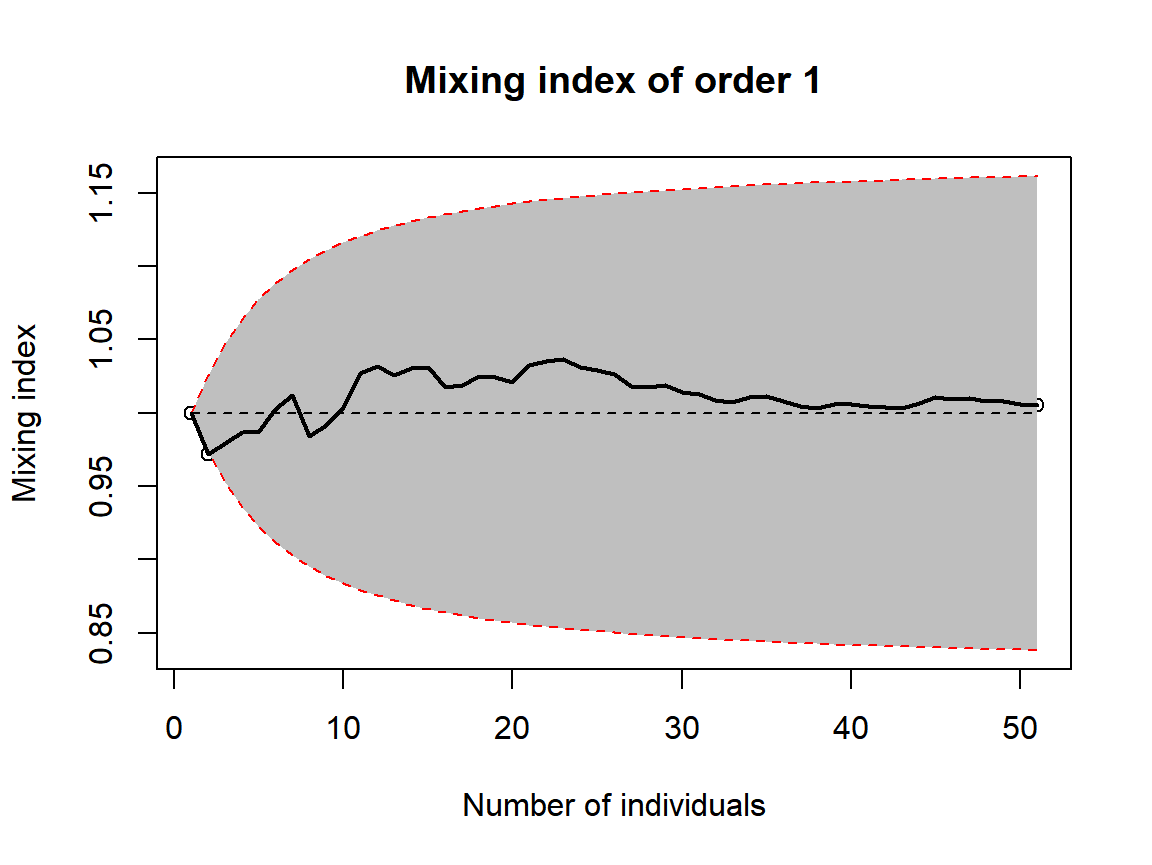
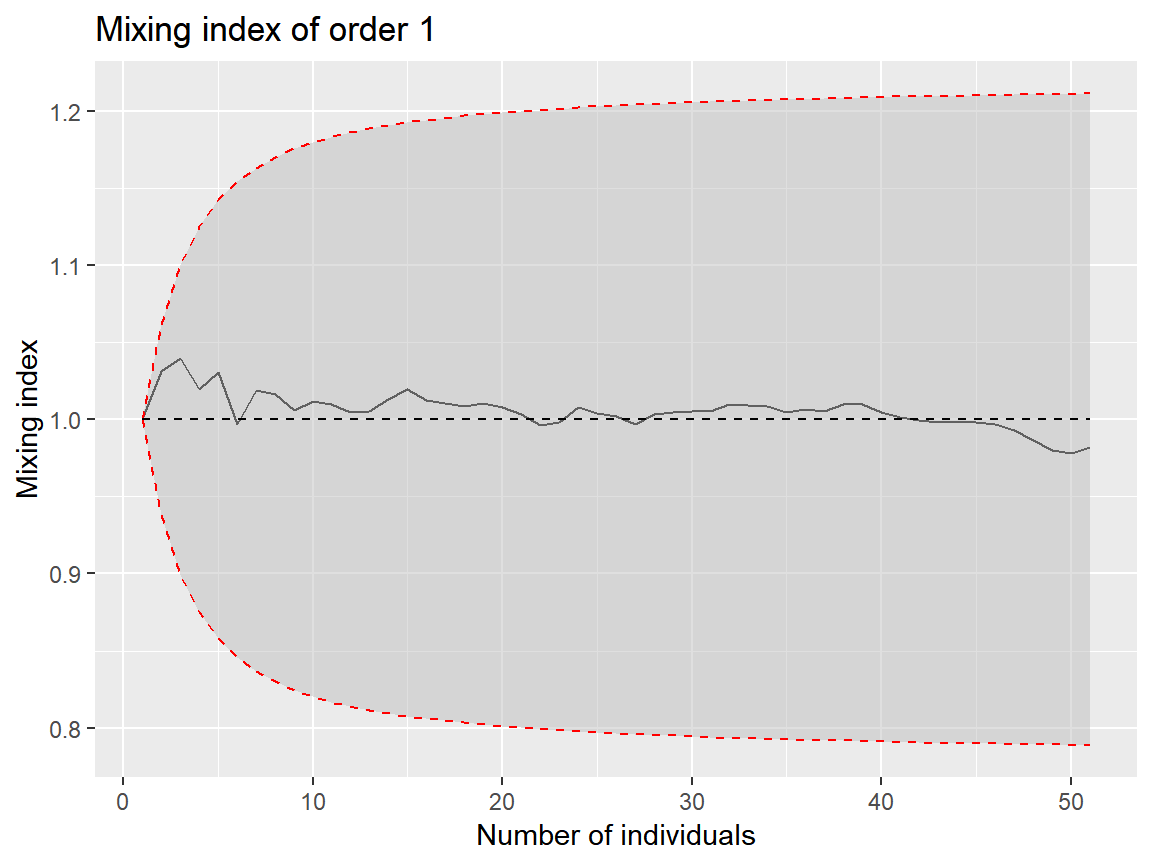
v. 0.4-0

diff --git a/docs/articles/SpatDiv.html b/docs/articles/SpatDiv.html
@@ -6,11 +6,18 @@
 <meta http-equiv="X-UA-Compatible" content="IE=edge">
 <meta name="viewport" content="width=device-width, initial-scale=1.0">
 <title>SpatDiv • SpatDiv</title>
+<!-- favicons --><link rel="icon" type="image/png" sizes="16x16" href="../favicon-16x16.png">
+<link rel="icon" type="image/png" sizes="32x32" href="../favicon-32x32.png">
+<link rel="apple-touch-icon" type="image/png" sizes="180x180" href="../apple-touch-icon.png">
+<link rel="apple-touch-icon" type="image/png" sizes="120x120" href="../apple-touch-icon-120x120.png">
+<link rel="apple-touch-icon" type="image/png" sizes="76x76" href="../apple-touch-icon-76x76.png">
+<link rel="apple-touch-icon" type="image/png" sizes="60x60" href="../apple-touch-icon-60x60.png">
 <!-- jquery --><script src="https://cdnjs.cloudflare.com/ajax/libs/jquery/3.3.1/jquery.min.js" integrity="sha256-FgpCb/KJQlLNfOu91ta32o/NMZxltwRo8QtmkMRdAu8=" crossorigin="anonymous"></script><!-- Bootstrap --><link rel="stylesheet" href="https://cdnjs.cloudflare.com/ajax/libs/twitter-bootstrap/3.3.7/css/bootstrap.min.css" integrity="sha256-916EbMg70RQy9LHiGkXzG8hSg9EdNy97GazNG/aiY1w=" crossorigin="anonymous">
 <script src="https://cdnjs.cloudflare.com/ajax/libs/twitter-bootstrap/3.3.7/js/bootstrap.min.js" integrity="sha256-U5ZEeKfGNOja007MMD3YBI0A3OSZOQbeG6z2f2Y0hu8=" crossorigin="anonymous"></script><!-- Font Awesome icons --><link rel="stylesheet" href="https://cdnjs.cloudflare.com/ajax/libs/font-awesome/4.7.0/css/font-awesome.min.css" integrity="sha256-eZrrJcwDc/3uDhsdt61sL2oOBY362qM3lon1gyExkL0=" crossorigin="anonymous">
 <!-- clipboard.js --><script src="https://cdnjs.cloudflare.com/ajax/libs/clipboard.js/2.0.4/clipboard.min.js" integrity="sha256-FiZwavyI2V6+EXO1U+xzLG3IKldpiTFf3153ea9zikQ=" crossorigin="anonymous"></script><!-- sticky kit --><script src="https://cdnjs.cloudflare.com/ajax/libs/sticky-kit/1.1.3/sticky-kit.min.js" integrity="sha256-c4Rlo1ZozqTPE2RLuvbusY3+SU1pQaJC0TjuhygMipw=" crossorigin="anonymous"></script><!-- pkgdown --><link href="../pkgdown.css" rel="stylesheet">
 <script src="../pkgdown.js"></script><meta property="og:title" content="SpatDiv">
 <meta property="og:description" content="">
+<meta property="og:image" content="https://ericmarcon.github.io/SpatDiv/logo.png">
 <meta name="twitter:card" content="summary">
 <!-- mathjax --><script src="https://cdnjs.cloudflare.com/ajax/libs/mathjax/2.7.5/MathJax.js" integrity="sha256-nvJJv9wWKEm88qvoQl9ekL2J+k/RWIsaSScxxlsrv8k=" crossorigin="anonymous"></script><script src="https://cdnjs.cloudflare.com/ajax/libs/mathjax/2.7.5/config/TeX-AMS-MML_HTMLorMML.js" integrity="sha256-84DKXVJXs0/F8OTMzX4UR909+jtl4G7SPypPavF+GfA=" crossorigin="anonymous"></script><!--[if lt IE 9]>
 <script src="https://oss.maxcdn.com/html5shiv/3.7.3/html5shiv.min.js"></script>
@@ -30,7 +37,7 @@
       </button>
       <span class="navbar-brand">
         <a class="navbar-link" href="../index.html">SpatDiv</a>
-        <span class="version label label-default" data-toggle="tooltip" data-placement="bottom" title="Released version">0.3.4</span>
+        <span class="version label label-default" data-toggle="tooltip" data-placement="bottom" title="Released version">0.4.0</span>
       </span>
     </div>
 
@@ -52,7 +59,14 @@
   <a href="../news/index.html">Changelog</a>
 </li>
       </ul>
-<ul class="nav navbar-nav navbar-right"></ul>
+<ul class="nav navbar-nav navbar-right">
+<li>
+  <a href="https://github.com/EricMarcon/SpatDiv">
+    <span class="fa fa-github fa-lg"></span>
+     
+  </a>
+</li>
+      </ul>
 </div>
 <!--/.nav-collapse -->
   </div>
@@ -68,7 +82,7 @@
             <h3 class="subtitle">Spatially Explicit Measures of Diversity</h3>
             
       
-      
+      <small class="dont-index">Source: <a href="https://github.com/EricMarcon/SpatDiv/blob/master/vignettes/SpatDiv.Rmd"><code>vignettes/SpatDiv.Rmd</code></a></small>
       <div class="hidden name"><code>SpatDiv.Rmd</code></div>
 
     </div>
@@ -95,7 +109,7 @@ remotes<span class="op">::</span><span class="kw"><a href="https://www.rdocument
 <span class="kw"><a href="https://www.rdocumentation.org/packages/graphics/topics/plot">plot</a></span>(spCommunity, <span class="dt">which.marks =</span> <span class="st">"PointType"</span>)</code></pre></div>
 <p><img src="SpatDiv_files/figure-html/rSpCommunity-1.png" width="700"></p>
 <p>Plot a rank-abundance curve.</p>
-<div class="sourceCode"><pre class="sourceCode r"><code class="sourceCode r"><span class="kw"><a href="https://www.rdocumentation.org/packages/graphics/topics/plot">plot</a></span>(<span class="kw">as.AbdVector</span>(spCommunity))</code></pre></div>
+<div class="sourceCode"><pre class="sourceCode r"><code class="sourceCode r"><span class="kw">autoplot</span>(<span class="kw">as.AbdVector</span>(spCommunity))</code></pre></div>
 <p><img src="SpatDiv_files/figure-html/Whittaker-1.png" width="700"></p>
 <div id="diversity-accumulation" class="section level2">
 <h2 class="hasAnchor">
@@ -105,19 +119,20 @@ remotes<span class="op">::</span><span class="kw"><a href="https://www.rdocument
 <a href="#with-respect-to-the-number-of-indiduals" class="anchor"></a>With respect to the number of indiduals</h3>
 <p>Compute the Diversity Accumulation Curve for 1 to 50 neighbors for orders 0, 1 and 2, with the theoretical, null-model curve. Plot it for Shannon diversity.</p>
 <div class="sourceCode"><pre class="sourceCode r"><code class="sourceCode r">divAccum &lt;-<span class="st"> </span><span class="kw"><a href="../reference/DivAccum.html">DivAccum</a></span>(spCommunity, <span class="dt">n.seq =</span> <span class="dv">1</span><span class="op">:</span><span class="dv">50</span>, <span class="dt">q.seq=</span><span class="dv">0</span><span class="op">:</span><span class="dv">2</span>, <span class="dt">H0=</span><span class="st">"Multinomial"</span>)</code></pre></div>
-<pre><code>## ======================================================================================================================================================</code></pre>
-<div class="sourceCode"><pre class="sourceCode r"><code class="sourceCode r"><span class="kw"><a href="https://www.rdocumentation.org/packages/graphics/topics/plot">plot</a></span>(divAccum, <span class="dt">q =</span> <span class="dv">1</span>)</code></pre></div>
+<div class="sourceCode"><pre class="sourceCode r"><code class="sourceCode r"><span class="kw">autoplot</span>(divAccum, <span class="dt">q =</span> <span class="dv">1</span>)</code></pre></div>
 <p><img src="SpatDiv_files/figure-html/plotDivAccum-1.png" width="576"></p>
 <p>Compute and plot the mixing index of any order. Save the local values for future use.</p>
 <div class="sourceCode"><pre class="sourceCode r"><code class="sourceCode r">mixing &lt;-<span class="st"> </span><span class="kw"><a href="../reference/Mixing.html">Mixing</a></span>(spCommunity, <span class="dt">n.seq =</span> <span class="dv">1</span><span class="op">:</span><span class="dv">50</span>, <span class="dt">q.seq=</span><span class="dv">0</span><span class="op">:</span><span class="dv">2</span>, <span class="dt">H0=</span><span class="st">"Multinomial"</span>, <span class="dt">Individual =</span> <span class="ot">TRUE</span>)</code></pre></div>
-<pre><code>## ======================================================================================================================================================</code></pre>
-<div class="sourceCode"><pre class="sourceCode r"><code class="sourceCode r"><span class="kw"><a href="https://www.rdocumentation.org/packages/graphics/topics/plot">plot</a></span>(mixing, <span class="dt">q =</span> <span class="dv">1</span>)</code></pre></div>
+<div class="sourceCode"><pre class="sourceCode r"><code class="sourceCode r"><span class="kw">autoplot</span>(mixing, <span class="dt">q =</span> <span class="dv">1</span>)</code></pre></div>
 <p><img src="SpatDiv_files/figure-html/Mixing-1.png" width="576"></p>
 </div>
 <div id="with-respect-to-distance" class="section level3">
 <h3 class="hasAnchor">
 <a href="#with-respect-to-distance" class="anchor"></a>With respect to distance</h3>
 <p>The same accumulation cuves can be computed by increasing the sample area around each point. The argument  contains the vector of radii of those circular plots.</p>
+<div class="sourceCode"><pre class="sourceCode r"><code class="sourceCode r">divAccum &lt;-<span class="st"> </span><span class="kw"><a href="../reference/DivAccum.html">DivAccum</a></span>(spCommunity, <span class="dt">r.seq =</span> <span class="kw"><a href="https://www.rdocumentation.org/packages/base/topics/seq">seq</a></span>(<span class="dv">0</span>, .<span class="dv">5</span>, <span class="dt">by=</span>.<span class="dv">1</span>), <span class="dt">q.seq=</span><span class="dv">0</span><span class="op">:</span><span class="dv">2</span>, <span class="dt">spCorrection =</span> <span class="st">"Extrapolation"</span>, <span class="dt">H0=</span><span class="st">"Binomial"</span>)</code></pre></div>
+<div class="sourceCode"><pre class="sourceCode r"><code class="sourceCode r"><span class="kw">autoplot</span>(divAccum, <span class="dt">q =</span> <span class="dv">1</span>)</code></pre></div>
+<p><img src="SpatDiv_files/figure-html/plotDivAccum2-1.png" width="576"></p>
 </div>
 <div id="null-hypotheses" class="section level3">
 <h3 class="hasAnchor">
@@ -168,7 +183,7 @@ remotes<span class="op">::</span><span class="kw"><a href="https://www.rdocument
 </div>
 
 <div class="pkgdown">
-  <p>Site built with <a href="https://pkgdown.r-lib.org/">pkgdown</a> 1.2.0.</p>
+  <p>Site built with <a href="https://pkgdown.r-lib.org/">pkgdown</a> 1.3.0.</p>
 </div>
       </footer>
 </div>

diff --git a/docs/news/index.html b/docs/news/index.html
@@ -70,7 +70,7 @@
       </button>
       <span class="navbar-brand">
         <a class="navbar-link" href="../index.html">SpatDiv</a>
-        <span class="version label label-default" data-toggle="tooltip" data-placement="bottom" title="Released version">0.3.4</span>
+        <span class="version label label-default" data-toggle="tooltip" data-placement="bottom" title="Released version">0.4.0</span>
       </span>
     </div>
 
@@ -116,24 +116,25 @@
       <small>Source: <a href='https://github.com/EricMarcon/SpatDiv/blob/master/NEWS.md'><code>NEWS.md</code></a></small>
     </div>
 
-    <div id="spatdiv-0-3-3" class="section level1">
+    <div id="spatdiv-0-4-0" class="section level1">
 <h1 class="page-header">
-<a href="#spatdiv-0-3-3" class="anchor"></a>SpatDiv 0.3-3</h1>
+<a href="#spatdiv-0-4-0" class="anchor"></a>SpatDiv 0.4-0</h1>
 <div id="new-features" class="section level2">
 <h2 class="hasAnchor">
 <a href="#new-features" class="anchor"></a>New features</h2>
 <ul>
-<li>Vignettes by <em>pkgdown</em>.</li>
+<li>Diversity accumulation with respect to distance, with edge-effect corrections.</li>
 </ul>
 </div>
 </div>
-    <div id="spatdiv-0-3-3-1" class="section level1">
+    <div id="spatdiv-0-3-3" class="section level1">
 <h1 class="page-header">
-<a href="#spatdiv-0-3-3-1" class="anchor"></a>SpatDiv 0.3-3</h1>
+<a href="#spatdiv-0-3-3" class="anchor"></a>SpatDiv 0.3-3</h1>
 <div id="new-features-1" class="section level2">
 <h2 class="hasAnchor">
 <a href="#new-features-1" class="anchor"></a>New features</h2>
 <ul>
+<li>Vignettes by <em>pkgdown</em>.</li>
 <li>
 <code>Paracou6</code> datasets.</li>
 <li>Examples.</li>
@@ -220,8 +221,8 @@
     <div id="tocnav">
       <h2>Contents</h2>
       <ul class="nav nav-pills nav-stacked">
+        <li><a href="#spatdiv-0-4-0">0.4-0</a></li>
         <li><a href="#spatdiv-0-3-3">0.3-3</a></li>
-        <li><a href="#spatdiv-0-3-3-1">0.3-3</a></li>
         <li><a href="#spatdiv-0-3-2">0.3-2</a></li>
         <li><a href="#spatdiv-0-3-1">0.3-1</a></li>
         <li><a href="#spatdiv-0-3-0">0.3-0</a></li>
@@ -239,7 +240,7 @@
 </div>
 
 <div class="pkgdown">
-  <p>Site built with <a href="https://pkgdown.r-lib.org/">pkgdown</a> 1.2.0.</p>
+  <p>Site built with <a href="https://pkgdown.r-lib.org/">pkgdown</a> 1.3.0.</p>
 </div>
       </footer>
    </div>

diff --git a/docs/index.html b/docs/index.html
@@ -37,7 +37,7 @@
       </button>
       <span class="navbar-brand">
         <a class="navbar-link" href="index.html">SpatDiv</a>
-        <span class="version label label-default" data-toggle="tooltip" data-placement="bottom" title="Released version">0.3.4</span>
+        <span class="version label label-default" data-toggle="tooltip" data-placement="bottom" title="Released version">0.4.0</span>
       </span>
     </div>
 
@@ -89,7 +89,7 @@
 </div>
   </div>
 
-  <div class="col-md-3" id="sidebar">
+  <div class="col-md-3 hidden-xs hidden-sm" id="sidebar">
     <div class="links">
 <h2>Links</h2>
 <ul class="list-unstyled">
@@ -116,13 +116,12 @@
   </div>
 </div>
 
-
       <footer><div class="copyright">
   <p>Developed by Eric Marcon, Alain Rousteau.</p>
 </div>
 
 <div class="pkgdown">
-  <p>Site built with <a href="https://pkgdown.r-lib.org/">pkgdown</a> 1.2.0.</p>
+  <p>Site built with <a href="https://pkgdown.r-lib.org/">pkgdown</a> 1.3.0.</p>
 </div>
       </footer>
 </div>

diff --git a/docs/pkgdown.js b/docs/pkgdown.js
@@ -25,6 +25,10 @@
     for (var i = 0; i < links.length; i++) {
       if (links[i].getAttribute("href") === "#")
         continue;
+      // Ignore external links
+      if (links[i].host !== location.host)
+        continue;
+
       var nav_path = paths(links[i].pathname);
 
       var length = prefix_length(nav_path, cur_path);
@@ -52,13 +56,14 @@
     return(pieces);
   }
 
+  // Returns -1 if not found
   function prefix_length(needle, haystack) {
     if (needle.length > haystack.length)
-      return(0);
+      return(-1);
 
     // Special case for length-0 haystack, since for loop won't run
     if (haystack.length === 0) {
-      return(needle.length === 0 ? 1 : 0);
+      return(needle.length === 0 ? 0 : -1);
     }
 
     for (var i = 0; i < haystack.length; i++) {

diff --git a/docs/articles/index.html b/docs/articles/index.html
@@ -70,7 +70,7 @@
       </button>
       <span class="navbar-brand">
         <a class="navbar-link" href="../index.html">SpatDiv</a>
-        <span class="version label label-default" data-toggle="tooltip" data-placement="bottom" title="Released version">0.3.4</span>
+        <span class="version label label-default" data-toggle="tooltip" data-placement="bottom" title="Released version">0.4.0</span>
       </span>
     </div>
 
@@ -132,7 +132,7 @@
 </div>
 
 <div class="pkgdown">
-  <p>Site built with <a href="https://pkgdown.r-lib.org/">pkgdown</a> 1.2.0.</p>
+  <p>Site built with <a href="https://pkgdown.r-lib.org/">pkgdown</a> 1.3.0.</p>
 </div>
       </footer>
    </div>

diff --git a/docs/reference/index.html b/docs/reference/index.html
@@ -70,7 +70,7 @@
       </button>
       <span class="navbar-brand">
         <a class="navbar-link" href="../index.html">SpatDiv</a>
-        <span class="version label label-default" data-toggle="tooltip" data-placement="bottom" title="Released version">0.3.4</span>
+        <span class="version label label-default" data-toggle="tooltip" data-placement="bottom" title="Released version">0.4.0</span>
       </span>
     </div>
 
@@ -365,7 +365,7 @@
 </div>
 
 <div class="pkgdown">
-  <p>Site built with <a href="https://pkgdown.r-lib.org/">pkgdown</a> 1.2.0.</p>
+  <p>Site built with <a href="https://pkgdown.r-lib.org/">pkgdown</a> 1.3.0.</p>
 </div>
       </footer>
    </div>

diff --git a/docs/authors.html b/docs/authors.html
@@ -70,7 +70,7 @@
       </button>
       <span class="navbar-brand">
         <a class="navbar-link" href="index.html">SpatDiv</a>
-        <span class="version label label-default" data-toggle="tooltip" data-placement="bottom" title="Released version">0.3.4</span>
+        <span class="version label label-default" data-toggle="tooltip" data-placement="bottom" title="Released version">0.4.0</span>
       </span>
     </div>
 
@@ -137,7 +137,7 @@
 </div>
 
 <div class="pkgdown">
-  <p>Site built with <a href="https://pkgdown.r-lib.org/">pkgdown</a> 1.2.0.</p>
+  <p>Site built with <a href="https://pkgdown.r-lib.org/">pkgdown</a> 1.3.0.</p>
 </div>
       </footer>
    </div>

diff --git a/docs/pkgdown.css b/docs/pkgdown.css
@@ -65,7 +65,7 @@ summary {
 
 /* Typographic tweaking ---------------------------------*/
 
-.contents h1.page-header {
+.contents .page-header {
   margin-top: calc(-60px + 1em);
 }
 

diff --git a/NEWS.md b/NEWS.md
@@ -1,14 +1,15 @@
+# SpatDiv 0.4-0
+
+## New features
+
+* Diversity accumulation with respect to distance, with edge-effect corrections.
+
+
 # SpatDiv 0.3-3
 
 ## New features
 
 * Vignettes by _pkgdown_.
-
-
-# SpatDiv 0.3-3
-
-## New features
-
 * `Paracou6` datasets.
 * Examples.
 
